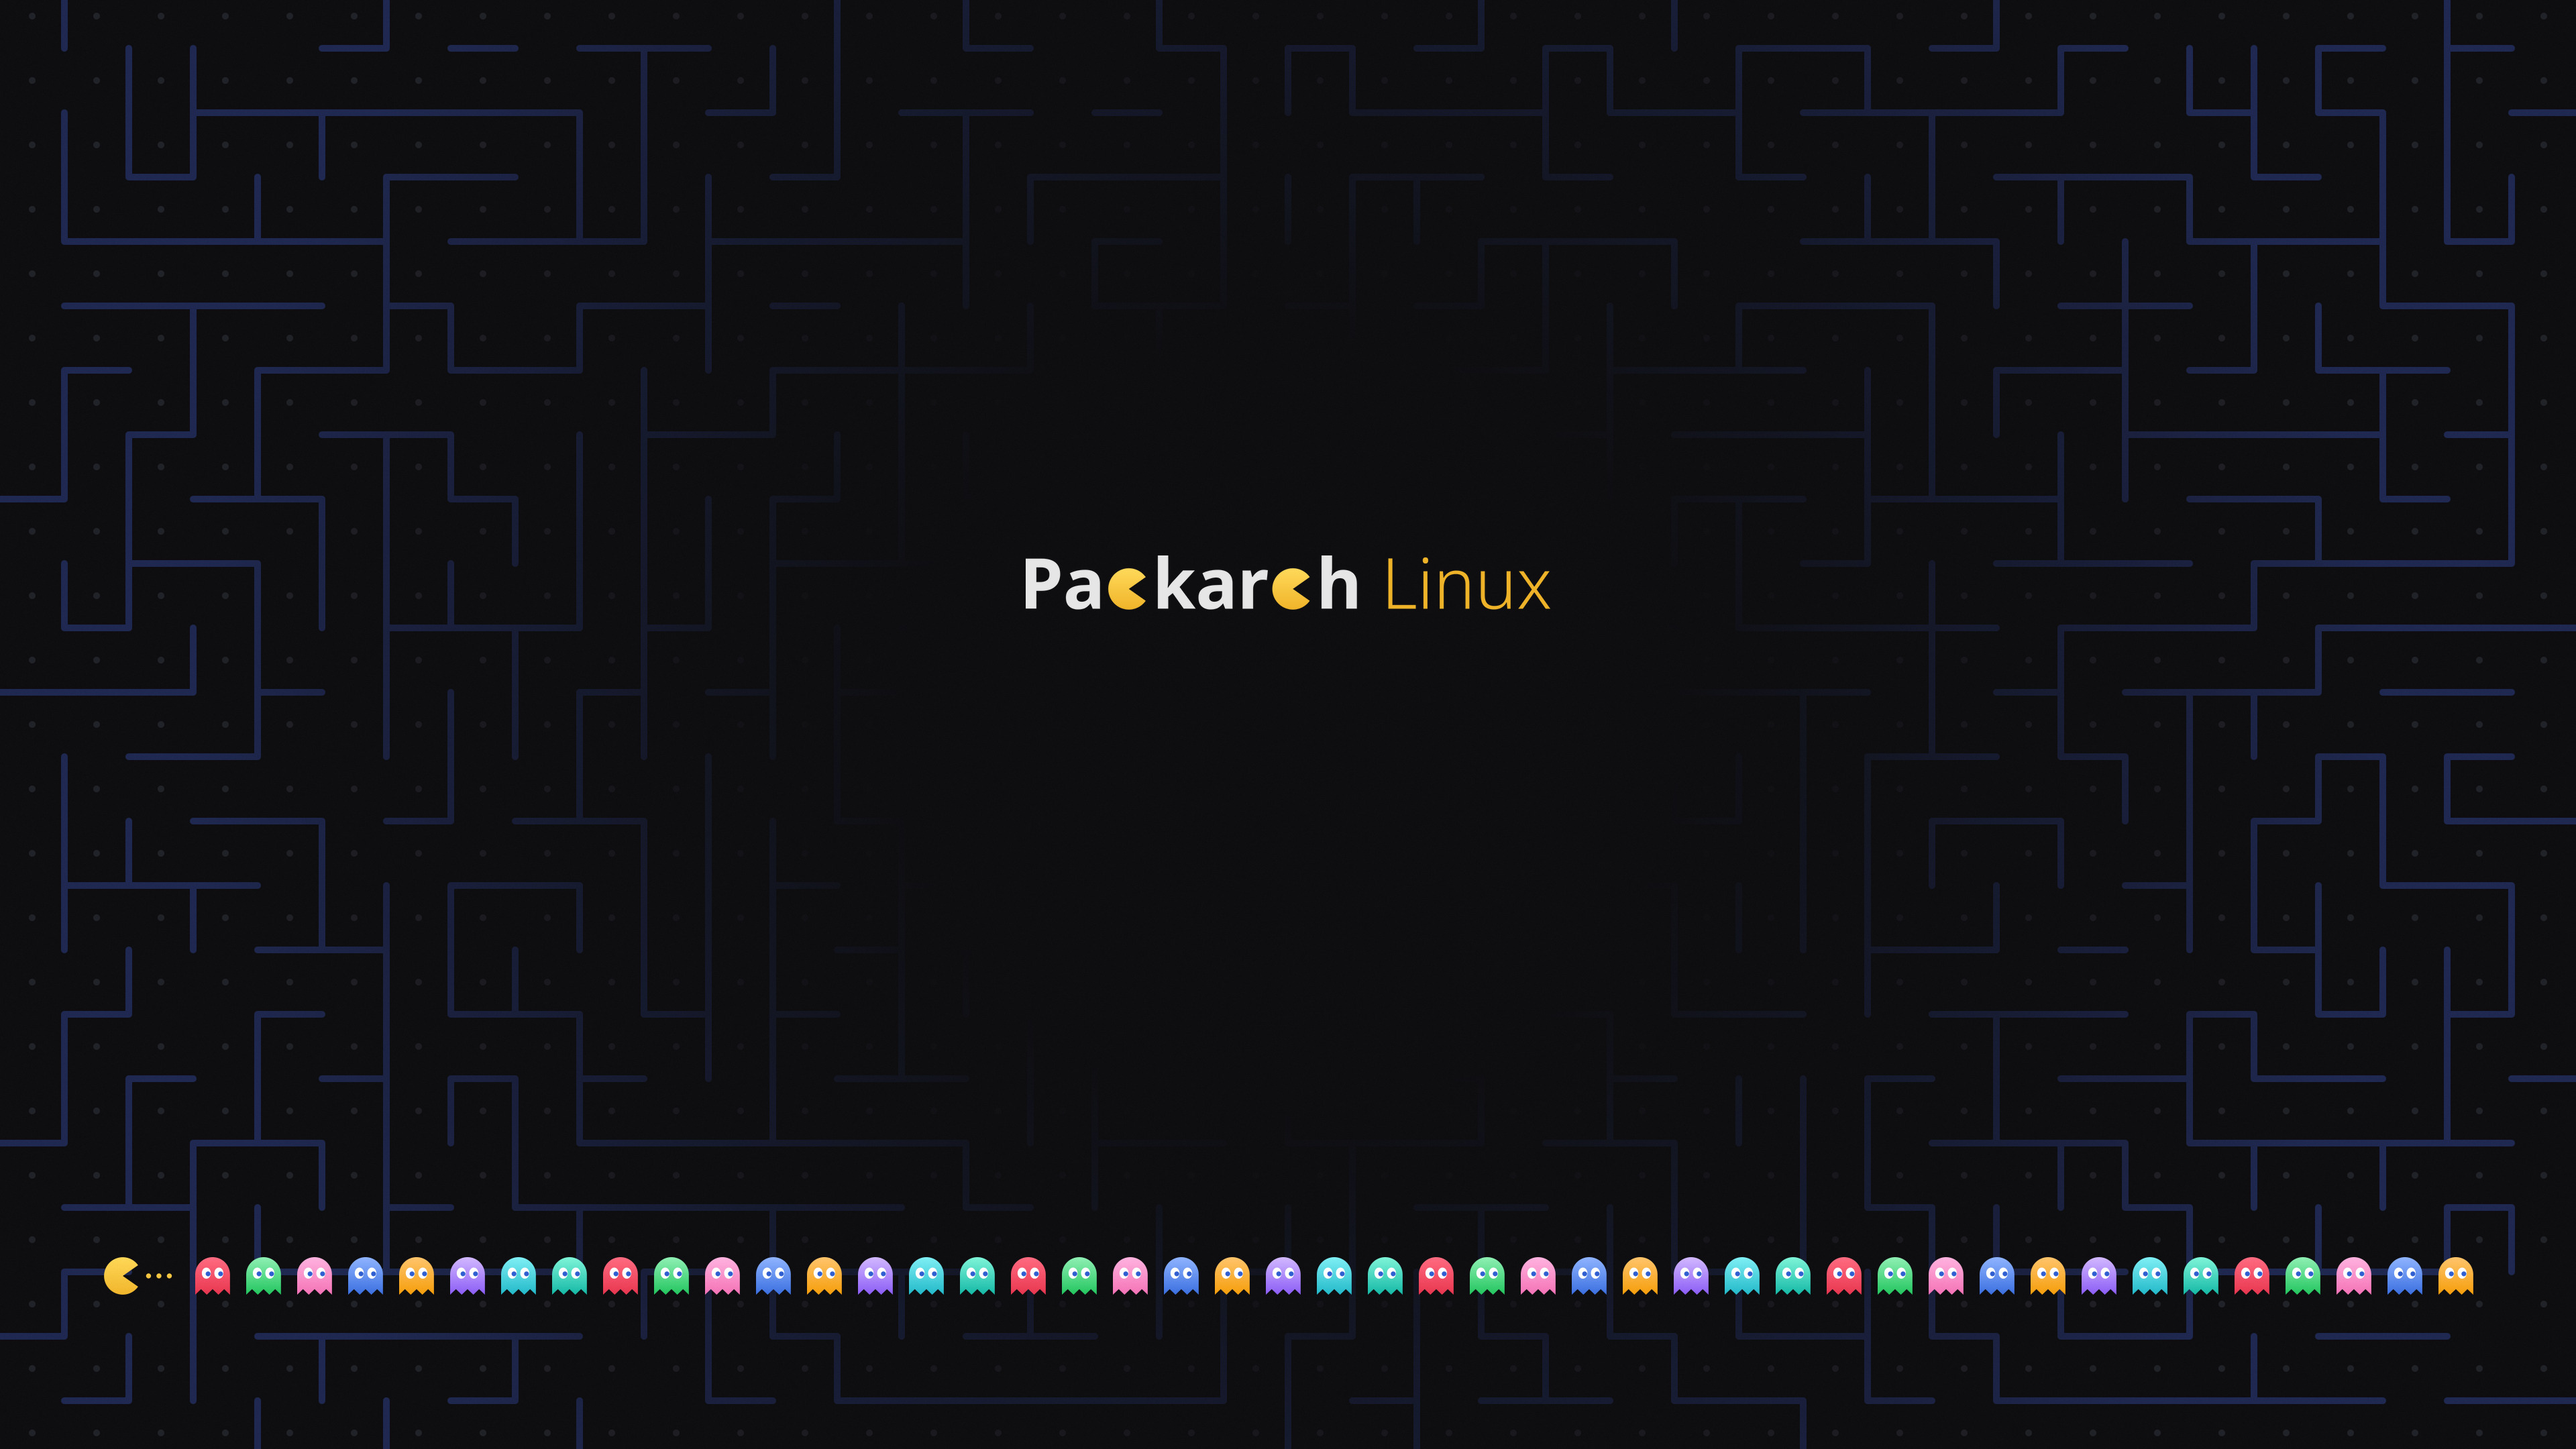
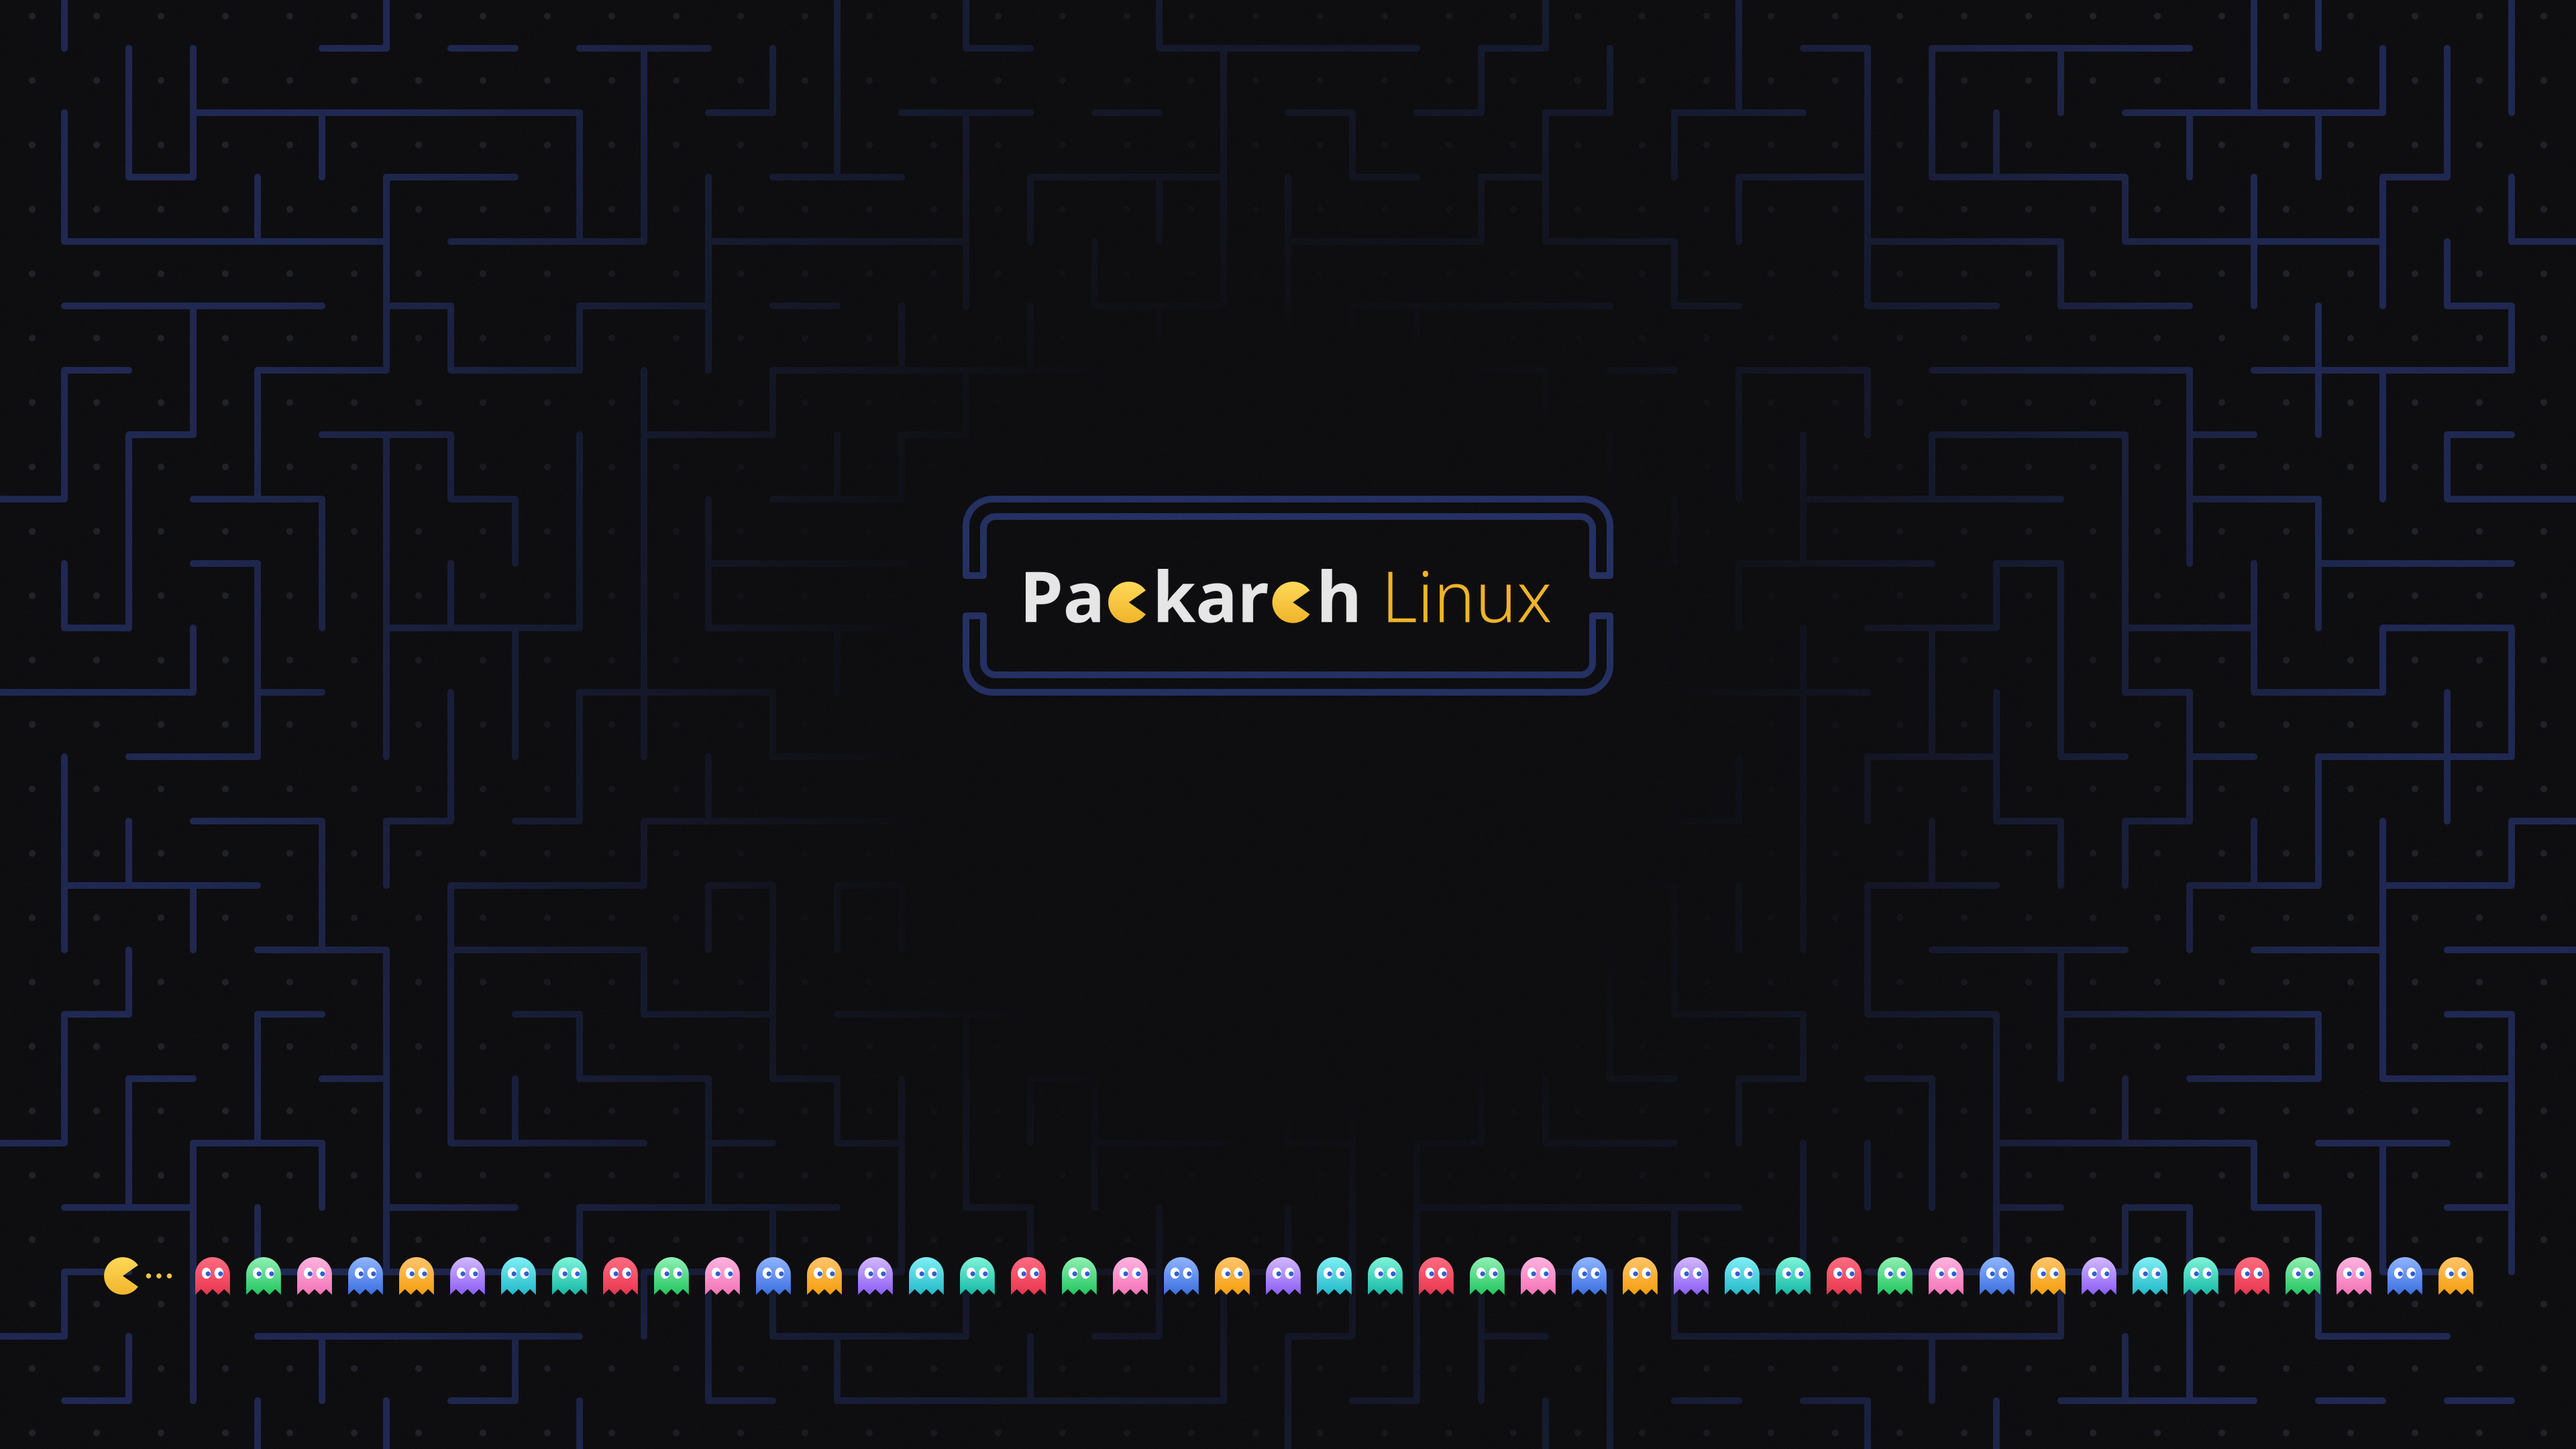
Marque : salle du labyrinthe aussi pour le fond SDDM
Salle au-dessus du panneau de connexion (rangées 8 à 10), cadre dessiné sans
fondu ; texte au centre de la salle, panneau en dessous (hauteurPanneau
0.590).

diff --git a/branding/sources/labyrinthe.py b/branding/sources/labyrinthe.py
@@ -5,15 +5,22 @@ import random, sys
 # --salle : salle au centre (10 x 3 cases, comme la maison des fantômes du
 # jeu) pour le texte « Packarch Linux » : sans murs ni pastilles dedans,
 # cadre à double trait aux coins arrondis, ouverte à gauche et à droite.
-# Sans l'option, le labyrinthe est le même qu'avant (fond SDDM).
-salle = "--salle" in sys.argv[1:]
+# --salle-y=N : rangée du haut de la salle (10 par défaut : centrée).
+# --cadre-seul : seulement le cadre de la salle (dessiné sans fondu sur le
+# fond SDDM) ; --sans-cadre : le labyrinthe sans le cadre.
+# Sans --salle, le labyrinthe est le même qu'avant.
+args = sys.argv[1:]
+salle = "--salle" in args
+cadre_seul = "--cadre-seul" in args
+sans_cadre = "--sans-cadre" in args
+haut = next((int(a.split("=")[1]) for a in args if a.startswith("--salle-y=")), 10)
 random.seed(7)
 C=96; W,H=3840,2160
 nx,ny=W//C,H//C+1
 ox=(W-nx*C)//2; oy=(H-ny*C)//2
 # Salle : cases [sx0, sx1) x [sy0, sy1), centrée sur l'image
-sx0,sx1,sy0,sy1=15,25,10,13
-porte=11
+sx0,sx1,sy0,sy1=15,25,haut,haut+3
+porte=haut+1
 def dans(x,y): return salle and sx0<=x<sx1 and sy0<=y<sy1
 # murs : droite[x][y], bas[x][y]
 droite=[[True]*ny for _ in range(nx)]; bas=[[True]*ny for _ in range(nx)]
@@ -61,6 +68,11 @@ if salle:
     # Les deux traits se rejoignent aux portes, comme dans le jeu
     jonctions=f"M{x0} {p0}H{x0+i}M{x0} {p1}H{x0+i}M{x1} {p0}H{x1-i}M{x1} {p1}H{x1-i}"
     cadre=f'\n<path d="{rect(0,40)} {rect(i,18)} {jonctions}" stroke="#2f3f85" stroke-width="10" stroke-linecap="round" stroke-linejoin="round" fill="none"/>'
+if cadre_seul:
+    print(f'''<svg xmlns="http://www.w3.org/2000/svg" width="{W}" height="{H}">{cadre}
+</svg>''')
+    sys.exit()
+if sans_cadre: cadre=""
 print(f'''<svg xmlns="http://www.w3.org/2000/svg" width="{W}" height="{H}">
 <path d="{d}" stroke="#26336b" stroke-width="10" stroke-linecap="round" fill="none"/>
 <path d="{pts}" fill="#2a2a33"/>{cadre}

diff --git a/branding/README.md b/branding/README.md
@@ -9,7 +9,7 @@ chaque fois). Images en 3840 × 2160.
 | `fonds/packarch-default.jpg` | fond du thème packarch (bureau) et de LightDM : fond `#0e0e11`, trame de pastilles, grain fin, grand fantôme à peine plus sombre derrière « Pa🟡kar🟡h Linux » |
 | `fonds/packarch-labyrinthe.jpg` | variante pour le bureau : labyrinthe entier (sans fondu, 70 %), « Pa🟡kar🟡h Linux » dans une salle au centre du labyrinthe (cadre à double trait, ouverte à gauche et à droite), sans fantômes |
 | `sddm/packarch/` | thème SDDM (prototype, Qt 6) : `Main.qml`, `theme.conf`, `metadata.desktop` |
-| `sddm/packarch/background.jpg` | son fond : labyrinthe estompé vers le centre, « Pa🟡kar🟡h Linux », ligne d'un pacman et de 45 fantômes de 8 couleurs en bas |
+| `sddm/packarch/background.jpg` | son fond : labyrinthe estompé vers le centre, « Pa🟡kar🟡h Linux » dans une salle du labyrinthe (cadre sans fondu), ligne d’un pacman et de 45 fantômes de 8 couleurs en bas |
 | `sddm/packarch/background-sans-fantomes.jpg` | le même sans la ligne du bas (`background=` de `theme.conf`) |
 
 ## Sources (`sources/`)
@@ -23,8 +23,9 @@ chaque fois). Images en 3840 × 2160.
   yeux découpés.
 - `labyrinthe.py` : labyrinthe parfait (graine 7, couloirs de 96 px) avec
   quelques boucles, murs `#26336b`, pastilles au milieu des couloirs ; écrit un
-  SVG sur la sortie standard. `--salle` : salle de 10 × 3 cases au centre
-  pour le texte (comme la maison des fantômes du jeu).
+  SVG sur la sortie standard. `--salle` : salle de 10 × 3 cases pour le texte
+  (comme la maison des fantômes du jeu) ; `--salle-y=N` sa rangée du haut,
+  `--cadre-seul` et `--sans-cadre` pour dessiner son cadre à part (fond SDDM).
 - `construire.sh` : texte « Packarch Linux » (Noto Sans Bold, `#e6e6e6` ;
   « Linux » en Noto Sans Light, `#f0b429` ; pacmans à la place des « c »),
   trame, grain, fondu du labyrinthe et assemblage des trois images.
